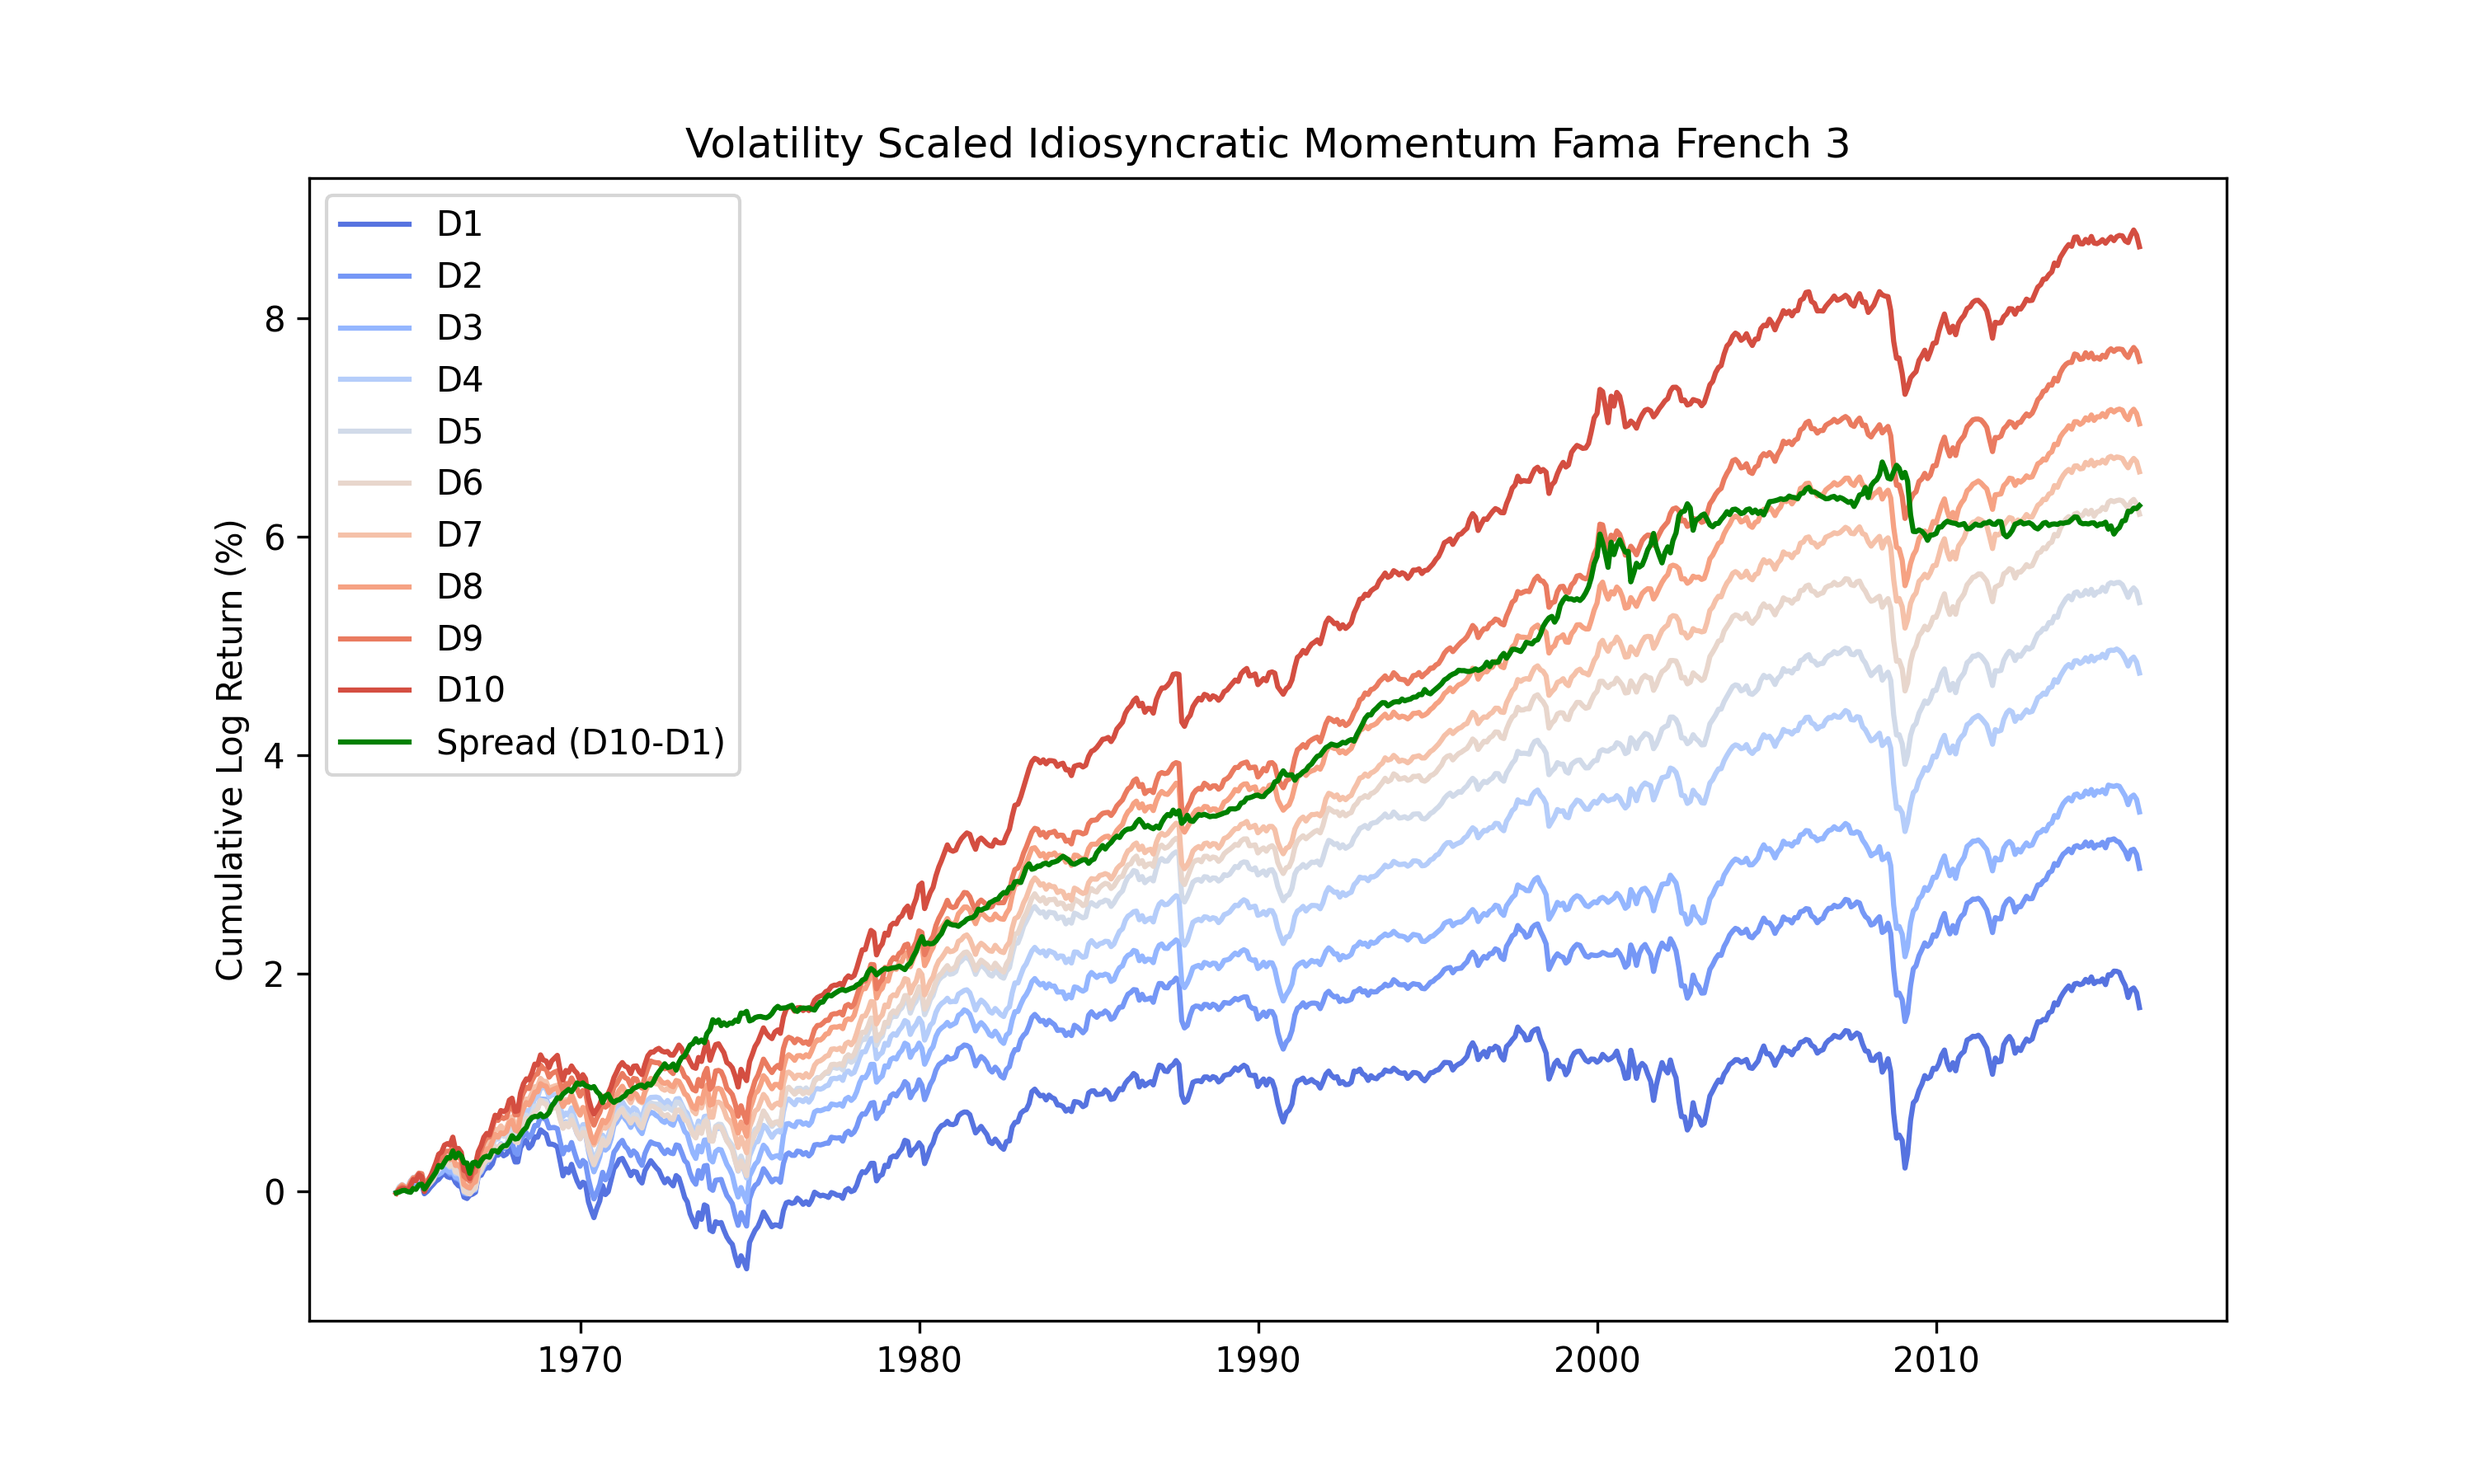
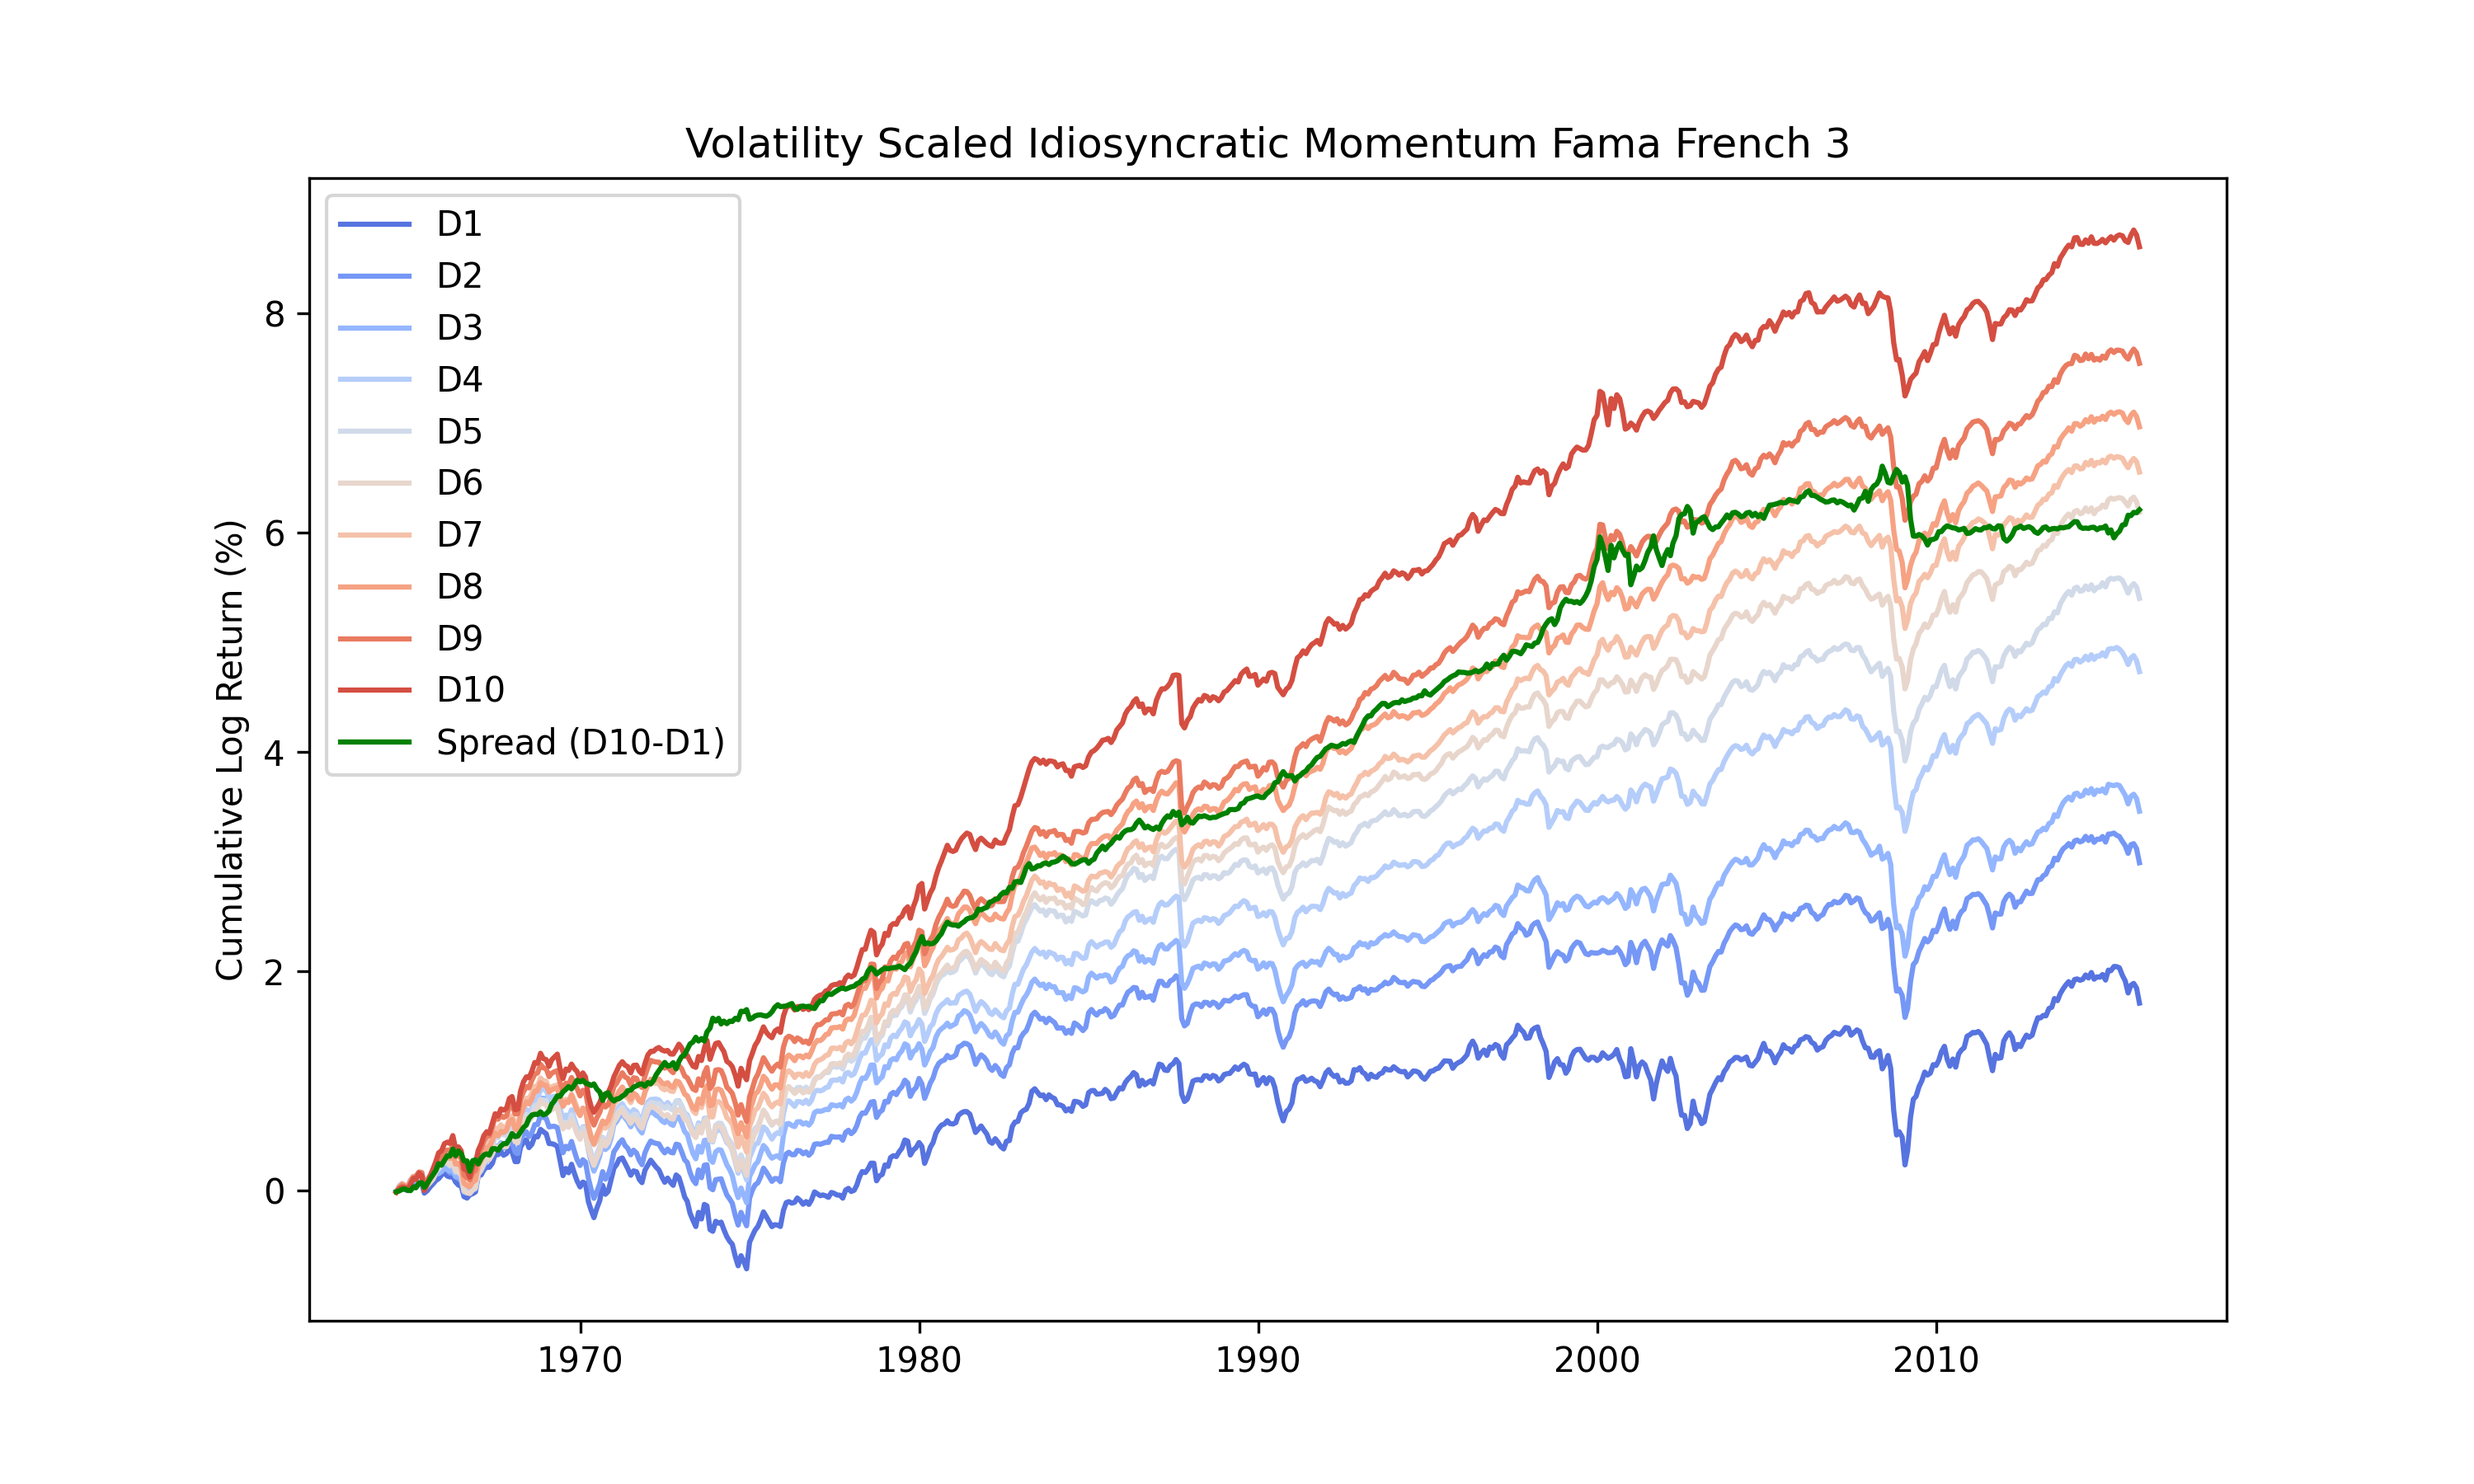
Working on experiment 3.

diff --git a/research/experiments/experiment_3.py b/research/experiments/experiment_3.py
@@ -1,0 +1,129 @@
+import polars as pl
+import datetime as dt
+from research.signals import get_signal, construct_signals
+from research.filters import get_filter, apply_filters
+from research.alpha_constructors import get_alpha_constructor, construct_alphas
+from research.portfolios import construct_quantile_portfolios
+from research.returns import construct_returns_from_weights
+import great_tables as gt
+from pathlib import Path
+import seaborn as sns
+import matplotlib.pyplot as plt
+
+sample = "out-of-sample"
+start = end = None
+rebalance_frequency = "monthly"
+annualize_results = True
+
+signal_names = [
+    "momentum",
+    "idiosyncratic_momentum_fama_french_3",
+    "volatility_scaled_idiosyncratic_momentum_fama_french_3",
+]
+
+weights_name_map = {
+    "momentum": "momentum",
+    "idiosyncratic_momentum_fama_french_3": "idio_mom_ff3",
+    "volatility_scaled_idiosyncratic_momentum_fama_french_3": "idio_mom_vol_scaled_ff3",
+}
+
+filter_names = ["low-price-stocks"]
+
+alpha_constructor_name = "cross_sectional_z_score"
+
+match sample:
+    case "in-sample":
+        start = dt.date(1963, 7, 31)
+        end = dt.date(2015, 12, 31)
+    case "out-of-sample":
+        start = dt.date(2016, 1, 1)
+        end = dt.date(2024, 12, 31)
+    case _:
+        raise ValueError(f"Sample not supported: {sample}")
+
+returns_list = []
+for signal_name in signal_names:
+    signal_weights_name = weights_name_map[signal_name]
+    weights = (
+        pl.scan_parquet(
+            f"weights/{signal_weights_name}/{signal_weights_name}_*.parquet"
+        )
+        .filter(pl.col("date").is_between(start, end))
+        # .with_columns(
+        #     pl.col('weight').truediv(pl.col('weight').sum()).over('date') # unit leverage
+        # )
+        .collect()
+    )
+
+    returns = construct_returns_from_weights(
+        weights=weights, rebalance_frequency=rebalance_frequency
+    ).select("date", pl.lit(signal_name).alias("signal"), pl.col("return"))
+    returns_list.append(returns)
+
+
+print("Combining results...")
+all_returns = pl.concat(returns_list)
+
+annual_factor = 1
+match rebalance_frequency:
+    case "monthly":
+        annual_factor = 12
+    case _:
+        raise ValueError(f"Rebalance frequency not implemented: {rebalance_frequency}")
+
+print("Saving summary table...")
+summary_table = (
+    all_returns.group_by("signal")
+    .agg(
+        pl.col("return").mean().mul(annual_factor * 100).alias("mean_return"),
+        pl.col("return")
+        .std()
+        .mul(pl.lit(annual_factor).sqrt() * 100)
+        .alias("volatility"),
+    )
+    .with_columns(pl.col("mean_return").truediv("volatility").alias("sharpe"))
+    .with_columns(pl.exclude("signal").round(2))
+    .with_columns(pl.col("signal").str.replace_all("_", " ").str.to_titlecase())
+    .rename(
+        {
+            "signal": "Signal",
+            "mean_return": "Mean Return",
+            "volatility": "Volatility",
+            "sharpe": "Sharpe",
+        }
+    )
+)
+
+title = "Momentum Variations"
+file_path = "results/experiment_3/combined"
+Path(file_path).parent.mkdir(parents=True, exist_ok=True)
+
+table = (
+    gt.GT(summary_table)
+    .tab_header(title=title)
+    .opt_stylize(style=5, color="gray")
+    .tab_source_note(source_note=f"Period: {start} to {end}")
+    .tab_source_note(source_note=f"Rebalance Frequency: {rebalance_frequency.title()}")
+    .tab_source_note(source_note=f"Annualized: {'Yes' if annualize_results else 'No'}")
+    .tab_options(source_notes_padding=gt.px(10))  # Add padding
+)
+
+table.save(Path(file_path + "_table").with_suffix(".png"))
+
+print("Saving returns chart...")
+cumulative_returns = (
+    all_returns.sort("signal", "date")
+    .with_columns(pl.col("signal").str.replace_all("_", " ").str.to_titlecase())
+    .with_columns(pl.col("return").log1p().cum_sum().mul(100).over("signal"))
+    .rename({"date": "Date", "return": "Return", "signal": "Signal"})
+)
+print(cumulative_returns)
+plt.figure(figsize=(10, 6))
+
+sns.lineplot(cumulative_returns, x="Date", y="Return", hue="Signal")
+
+plt.title("Momentum Variations")
+plt.xlabel(None)
+plt.ylabel("Cumulative Log Returns (%)")
+
+plt.savefig(Path(file_path + "_chart").with_suffix(".png"))

diff --git a/research/returns.py b/research/returns.py
@@ -29,6 +29,7 @@ def construct_returns(
             .shift(-holding_period)
             .exp()
             .sub(1)
+            .over('permno')
             .alias("fwd_return"),
         )
     )
@@ -82,7 +83,7 @@ def construct_returns(
 def construct_returns_from_weights(
     weights: pl.DataFrame, rebalance_frequency: str
 ) -> pl.DataFrame:
-    holding_period = 1 # TODO: Use the paradigm that weights are already in the correct frequency.
+    holding_period = None
     match rebalance_frequency:
         case "daily":
             holding_period = 1
@@ -101,10 +102,11 @@ def construct_returns_from_weights(
             "barrid",
             pl.col("return")
             .log1p()
-            .rolling_sum(window_size=holding_period)
+            .rolling_sum(window_size=holding_period) # TODO: Check that min_samples=1 makes sense
             .shift(-holding_period)
             .exp()
             .sub(1)
+            .over('barrid')
             .alias("fwd_return"),
         )
     )
@@ -117,20 +119,4 @@ def construct_returns_from_weights(
         .collect()
     )
 
-    if rebalance_frequency == "daily":
-        return returns
-
-    elif rebalance_frequency == "monthly":
-        month_end_dates = (
-            returns.with_columns(pl.col("date").dt.strftime("%Y%m").alias("year_month"))
-            .group_by("year_month")
-            .agg(pl.col("date").max())["date"]
-            .unique()
-            .sort()
-            .to_list()
-        )
-
-        return returns.filter(pl.col("date").is_in(month_end_dates)).sort("date")
-
-    else:
-        raise ValueError(f"Rebalance frequency not implemented: {rebalance_frequency}")
+    return returns

diff --git a/research/experiments/experiment_1.py b/research/experiments/experiment_1.py
@@ -8,6 +8,7 @@ from research.evaluations import (
     create_quantile_summary_table,
     create_quantile_returns_chart,
 )
+from pathlib import Path
 
 sample = "in-sample"
 start = end = None
@@ -69,6 +70,7 @@ for signal_name in signal_names:
 
     title = signal.name.replace("_", " ").title()
     file_path = "results/experiment_1/" + signal_name + "-" + sample
+    Path(file_path).parent.mkdir(parents=True, exist_ok=True)
 
     print("Saving results...")
     create_quantile_returns_chart(

diff --git a/research/experiments/experiment_2.py b/research/experiments/experiment_2.py
@@ -112,6 +112,7 @@ summary_table = (
 
 title = "Momentum Variations"
 file_path = "results/experiment_2/combined"
+Path(file_path).parent.mkdir(parents=True, exist_ok=True)
 
 table = (
     gt.GT(summary_table)
